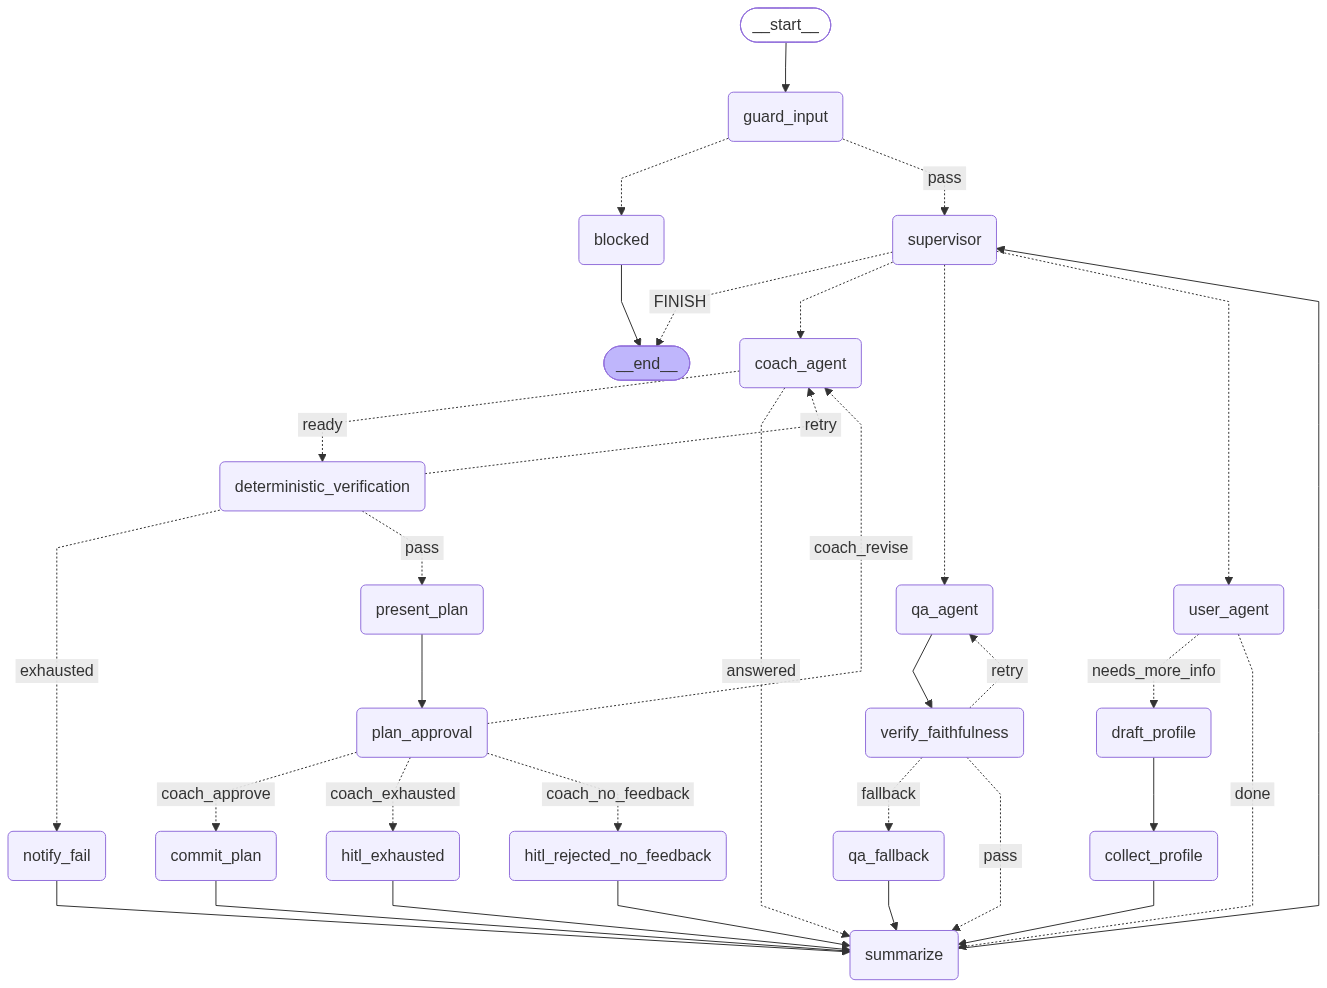
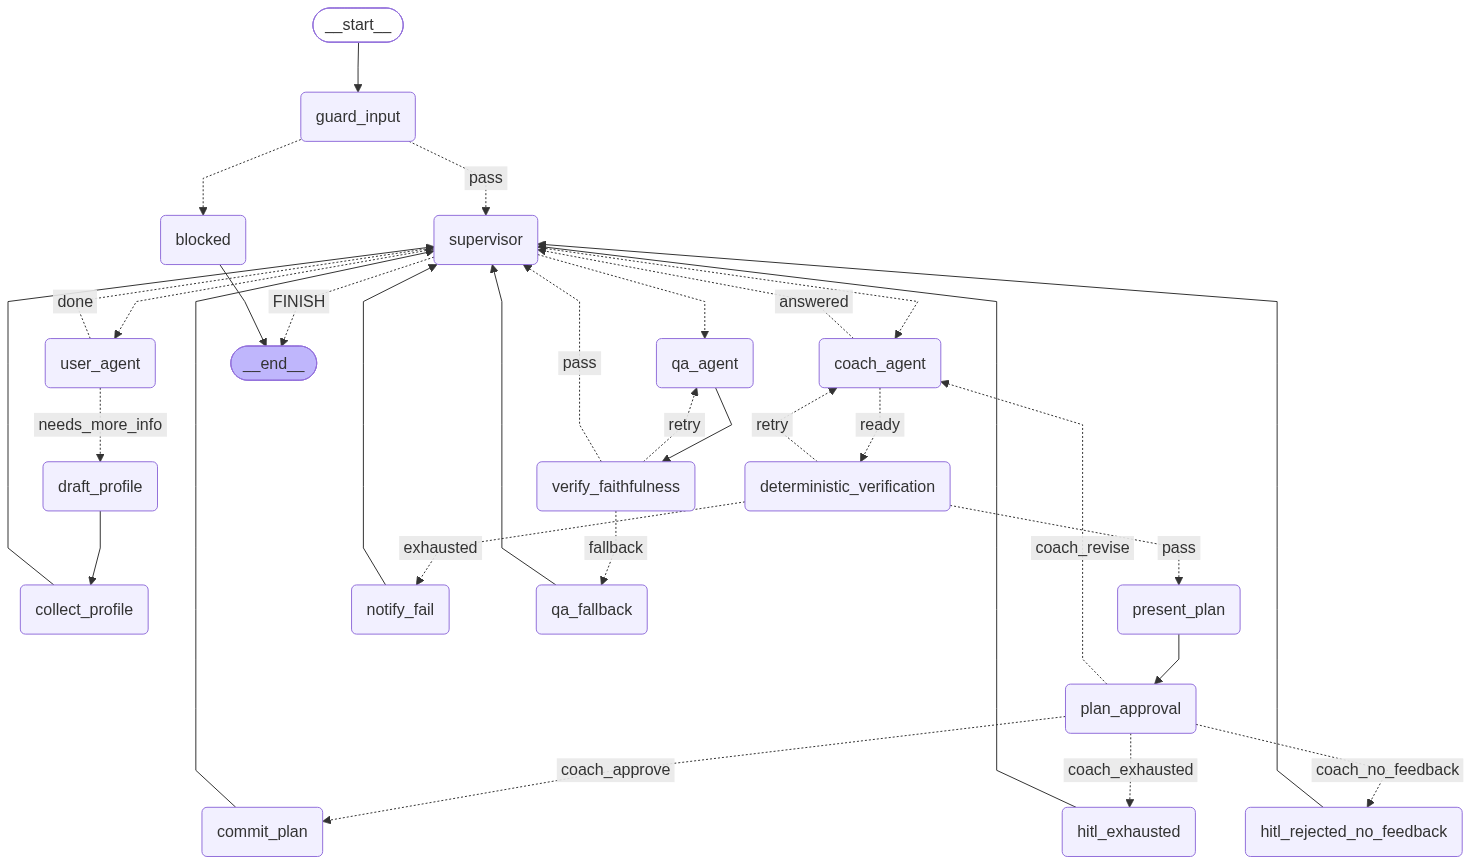
feat: update graph flow

diff --git a/custom-graph-architecture/src/graph.py b/custom-graph-architecture/src/graph.py
@@ -41,7 +41,6 @@ from src.nodes import (
     route_after_guard,
     route_after_plan_approval,
     route_after_verification,
-    summarize,
     verify_faithfulness,
 )
 from src.observability import observed
@@ -68,7 +67,6 @@ NODES: tuple[tuple[Node, Callable], ...] = (
     (Node.QA_AGENT, qa_agent),
     (Node.VERIFY_FAITHFULNESS, verify_faithfulness),
     (Node.QA_FALLBACK, qa_fallback),
-    (Node.SUMMARIZE, summarize),
 )
 
 
@@ -80,8 +78,7 @@ def build_graph() -> StateGraph:
         builder.add_node(name, observed(name, node))
 
     builder.add_edge(START, Node.GUARD_INPUT)
-    builder.add_conditional_edges(
-        Node.GUARD_INPUT, route_after_guard, GUARD_ROUTES)
+    builder.add_conditional_edges(Node.GUARD_INPUT, route_after_guard, GUARD_ROUTES)
     builder.add_edge(Node.BLOCKED, END)
     builder.add_conditional_edges(
         Node.SUPERVISOR, route_after_supervisor, SUPERVISOR_ROUTES
@@ -89,27 +86,25 @@ def build_graph() -> StateGraph:
     builder.add_conditional_edges(
         Node.USER_AGENT, route_after_user_agent, USER_AGENT_ROUTES
     )
-    builder.add_conditional_edges(
-        Node.COACH_AGENT, route_after_coach, COACH_ROUTES)
+    builder.add_conditional_edges(Node.COACH_AGENT, route_after_coach, COACH_ROUTES)
     builder.add_edge(Node.DRAFT_PROFILE, Node.COLLECT_PROFILE)
-    builder.add_edge(Node.COLLECT_PROFILE, Node.SUMMARIZE)
+    builder.add_edge(Node.COLLECT_PROFILE, Node.SUPERVISOR)
     builder.add_conditional_edges(
         Node.DETERMINISTIC_VERIFICATION, route_after_verification, VERIFICATION_ROUTES
     )
     builder.add_edge(Node.PRESENT_PLAN, Node.PLAN_APPROVAL)
-    builder.add_edge(Node.NOTIFY_FAIL, Node.SUMMARIZE)
+    builder.add_edge(Node.NOTIFY_FAIL, Node.SUPERVISOR)
     builder.add_conditional_edges(
         Node.PLAN_APPROVAL, route_after_plan_approval, PLAN_APPROVAL_ROUTES
     )
-    builder.add_edge(Node.COMMIT_PLAN, Node.SUMMARIZE)
-    builder.add_edge(Node.HITL_REJECTED_NO_FEEDBACK, Node.SUMMARIZE)
-    builder.add_edge(Node.HITL_EXHAUSTED, Node.SUMMARIZE)
+    builder.add_edge(Node.COMMIT_PLAN, Node.SUPERVISOR)
+    builder.add_edge(Node.HITL_REJECTED_NO_FEEDBACK, Node.SUPERVISOR)
+    builder.add_edge(Node.HITL_EXHAUSTED, Node.SUPERVISOR)
     builder.add_edge(Node.QA_AGENT, Node.VERIFY_FAITHFULNESS)
     builder.add_conditional_edges(
         Node.VERIFY_FAITHFULNESS, route_after_faithfulness, FAITHFULNESS_ROUTES
     )
-    builder.add_edge(Node.QA_FALLBACK, Node.SUMMARIZE)
-    builder.add_edge(Node.SUMMARIZE, Node.SUPERVISOR)
+    builder.add_edge(Node.QA_FALLBACK, Node.SUPERVISOR)
 
     return builder
 

diff --git a/custom-graph-architecture/src/constants/routes.py b/custom-graph-architecture/src/constants/routes.py
@@ -27,7 +27,7 @@ SUPERVISOR_ROUTES: dict[str, str] = {
 
 USER_AGENT_ROUTES: dict[str, str] = {
     UserAgentRoute.NEEDS_MORE_INFO: Node.DRAFT_PROFILE,
-    UserAgentRoute.DONE: Node.SUMMARIZE,
+    UserAgentRoute.DONE: Node.SUPERVISOR,
 }
 
 VERIFICATION_ROUTES: dict[str, str] = {
@@ -37,8 +37,8 @@ VERIFICATION_ROUTES: dict[str, str] = {
 }
 
 COACH_ROUTES: dict[str, str] = {
-    CoachRoute.NEEDS_PROFILE: Node.SUMMARIZE,
-    CoachRoute.ANSWERED: Node.SUMMARIZE,
+    CoachRoute.NEEDS_PROFILE: Node.SUPERVISOR,
+    CoachRoute.ANSWERED: Node.SUPERVISOR,
     CoachRoute.READY: Node.DETERMINISTIC_VERIFICATION,
 }
 
@@ -50,7 +50,7 @@ PLAN_APPROVAL_ROUTES: dict[str, str] = {
 }
 
 FAITHFULNESS_ROUTES: dict[str, str] = {
-    FaithfulnessRoute.PASS: Node.SUMMARIZE,
+    FaithfulnessRoute.PASS: Node.SUPERVISOR,
     FaithfulnessRoute.RETRY: Node.QA_AGENT,
     FaithfulnessRoute.FALLBACK: Node.QA_FALLBACK,
 }

diff --git a/custom-graph-architecture/src/enums/graph.py b/custom-graph-architecture/src/enums/graph.py
@@ -23,7 +23,6 @@ class Node(StrEnum):
     QA_AGENT = "qa_agent"
     VERIFY_FAITHFULNESS = "verify_faithfulness"
     QA_FALLBACK = "qa_fallback"
-    SUMMARIZE = "summarize"
 
 
 __all__ = ["Node"]
